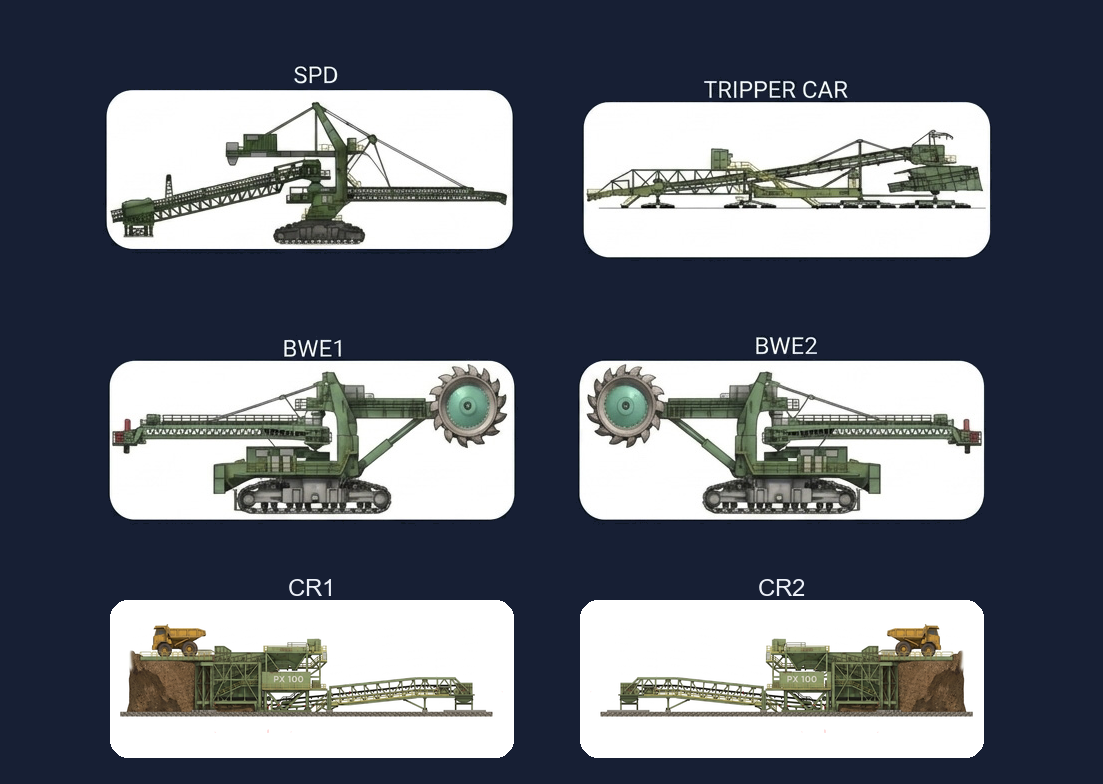
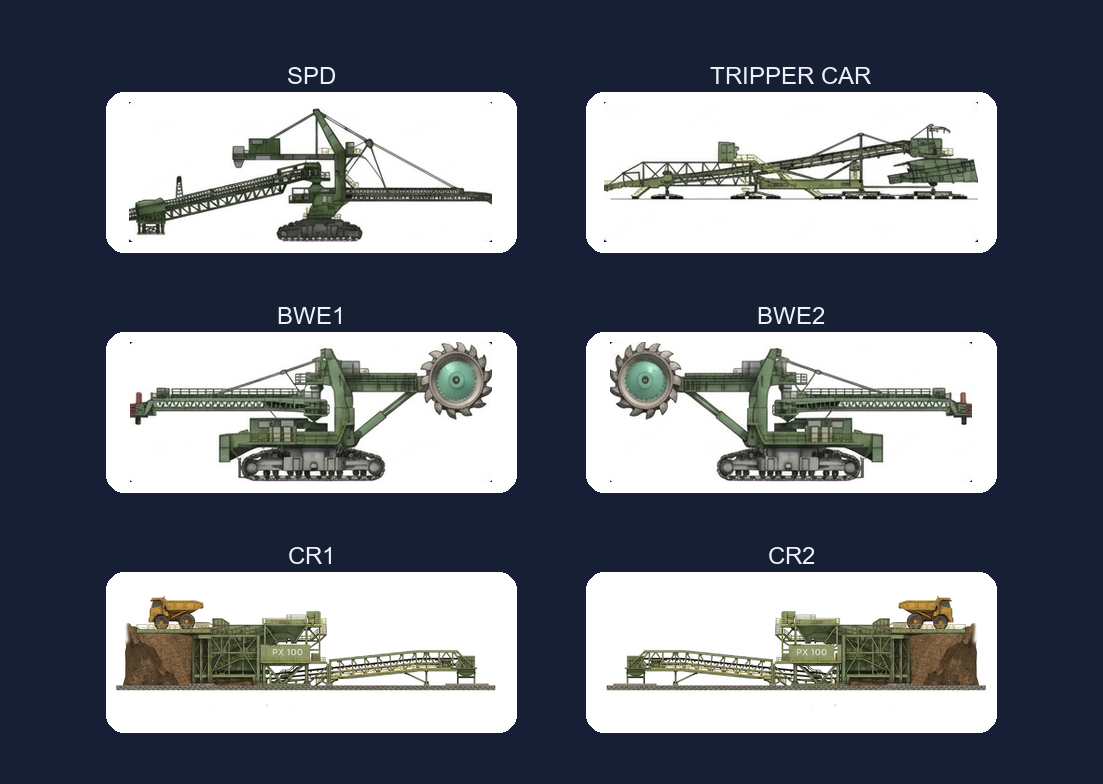
Rebuild the home page on one grid
The picture had been assembled a piece at a time and it showed: the top
row's cards were 166px tall against 158 below, the columns sat 3-4px
apart between rows, and TRIPPER CAR started fourteen pixels lower than
SPD, which is the misalignment that was visible.

Every card is now 410x160 on the same two columns and even row spacing,
labels all on one line, artwork centred the same way in each. The
machine art is lifted out of the old cards - measuring each card's own
top edge rather than assuming the row shares one, which is what produced
a strip of dark background above the tripper on the first attempt.

diff --git a/home.html b/home.html
@@ -45,12 +45,12 @@
   <div class="stage">
     <img src="home.png" alt="เลือกหน้าที่ต้องการดู">
     <!-- clickable tiles overlaid on the composite image -->
-    <a class="tile" href="spreader.html" title="SPD — Spreader"      style="left:9.70%;top:11.48%;width:36.63%;height:21.17%"></a>
-    <a class="tile" href="tripper.html"  title="Tripper Car"          style="left:52.95%;top:11.48%;width:36.71%;height:21.17%"></a>
-    <a class="tile" href="BWE1.html"     title="BWE1"                 style="left:9.97%;top:46.05%;width:36.54%;height:20.02%"></a>
-    <a class="tile" href="BWE2.html"     title="BWE2"                 style="left:52.58%;top:46.05%;width:36.54%;height:20.02%"></a>
-    <a class="tile" href="CR1.html"     title="CR1 — Crusher 1"     style="left:9.97%;top:76.53%;width:36.54%;height:20.03%"></a>
-    <a class="tile" href="CR2.html"     title="CR2 — Crusher 2"     style="left:52.58%;top:76.53%;width:36.54%;height:20.03%"></a>
+    <a class="tile" href="spreader.html" title="SPD — Spreader" style="left:9.61%;top:11.73%;width:37.17%;height:20.41%"></a>
+    <a class="tile" href="tripper.html" title="Tripper Car" style="left:53.13%;top:11.73%;width:37.17%;height:20.41%"></a>
+    <a class="tile" href="BWE1.html" title="BWE1" style="left:9.61%;top:42.35%;width:37.17%;height:20.41%"></a>
+    <a class="tile" href="BWE2.html" title="BWE2" style="left:53.13%;top:42.35%;width:37.17%;height:20.41%"></a>
+    <a class="tile" href="CR1.html" title="CR1 — Crusher 1" style="left:9.61%;top:72.96%;width:37.17%;height:20.41%"></a>
+    <a class="tile" href="CR2.html" title="CR2 — Crusher 2" style="left:53.13%;top:72.96%;width:37.17%;height:20.41%"></a>
   </div>
 </body>
 </html>
